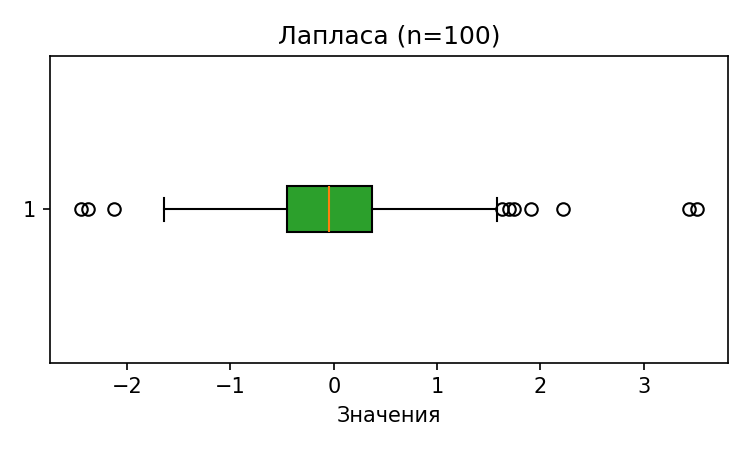
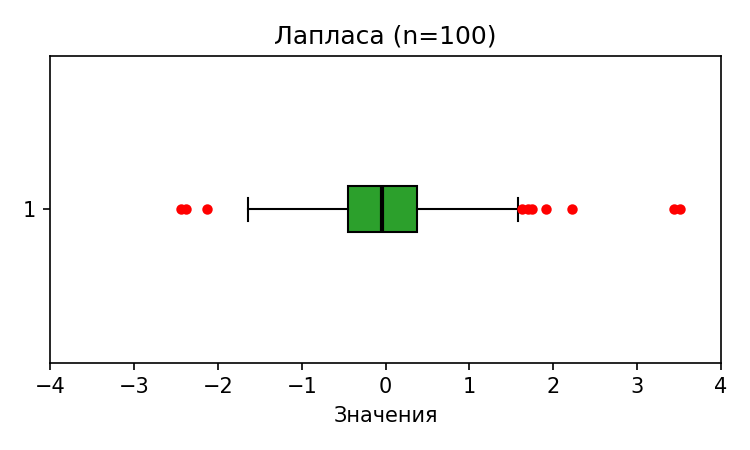
final ver

diff --git a/lab3.py b/lab3.py
@@ -11,10 +11,7 @@ os.makedirs("results", exist_ok=True)
 os.makedirs("images", exist_ok=True)
 
 def compute_outlier_fraction(sample):
-    """
-    Возвращает долю выбросов в выборке по правилу Тьюки:
-    границы [Q1 - 1.5*IQR, Q3 + 1.5*IQR]
-    """
+    """Возвращает долю выбросов по правилу Тьюки"""
     q1 = np.percentile(sample, 25)
     q3 = np.percentile(sample, 75)
     iqr = q3 - q1
@@ -27,19 +24,24 @@ def compute_outlier_fraction(sample):
 distributions = [
     {"name": "Нормальное", 
      "gen": lambda s: np.random.normal(0, 1, s),
-     "color": "C0"},
+     "color": "C0",
+     "xlim": (-4, 4)},
     {"name": "Коши",
      "gen": lambda s: np.random.standard_cauchy(s),
-     "color": "C1"},
+     "color": "C1",
+     "xlim": (-15, 15)},
     {"name": "Лапласа",
      "gen": lambda s: np.random.laplace(0, 1/np.sqrt(2), s),
-     "color": "C2"},
+     "color": "C2",
+     "xlim": (-4, 4)},
     {"name": "Пуассона",
      "gen": lambda s: np.random.poisson(5, s),
-     "color": "C3"},
+     "color": "C3",
+     "xlim": (-2, 12)},
     {"name": "Равномерное",
      "gen": lambda s: np.random.uniform(-np.sqrt(3), np.sqrt(3), s),
-     "color": "C4"}
+     "color": "C4",
+     "xlim": (-2, 2)}
 ]
 sample_sizes = [20, 100]
 repetitions = 1000
@@ -69,9 +71,14 @@ for dist in distributions:
         # Построение боксплота для последней выборки (для визуализации)
         plt.figure(figsize=(5, 3))
         plt.boxplot(sample, vert=False, patch_artist=True,
-                    boxprops=dict(facecolor=dist["color"]))
+                    boxprops=dict(facecolor=dist["color"]),
+                    medianprops=dict(color='black', linewidth=2),
+                    flierprops=dict(marker='o', markerfacecolor='red',
+                                    markersize=4, linestyle='none',
+                                    markeredgecolor='red'))
         plt.title(f"{dname} (n={n})")
         plt.xlabel("Значения")
+        plt.xlim(dist["xlim"])  # фиксируем интервал для данного распределения
         plt.tight_layout()
         plt.savefig(f"images/boxplot_{dname}_n{n}.png", dpi=150)
         plt.close()
